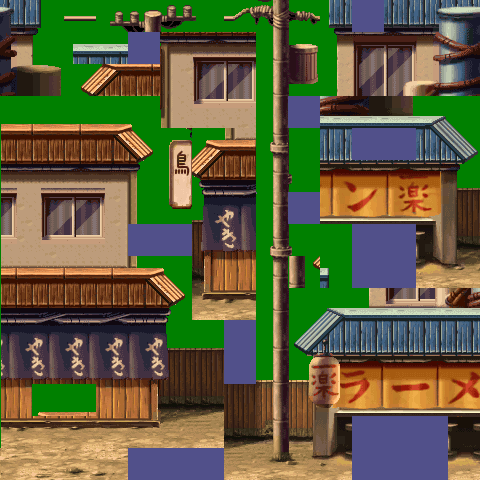
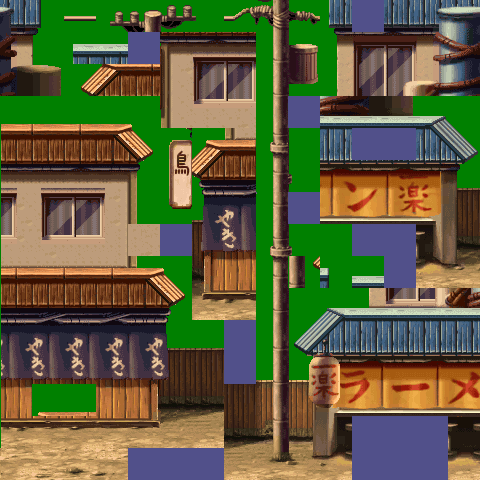
mở rộng màn hình game và mở rộng map

Changed region(s): [[0.7188, 0.5312, 0.8125, 0.625], [0.25, 0.4688, 0.3438, 0.5312]]

diff --git a/include/Const.h b/include/Const.h
@@ -5,8 +5,8 @@
 #include <map>
 #include <vector>
 
-const int WIDTH = 800;
-const int HIGH = 640;
+const int WIDTH = 1920;
+const int HIGH = 992;
 
 const int FPS = 60;
 const int frameDelay = 1000 / FPS;
@@ -15,8 +15,8 @@ const int BLOCK_W = 32;			// kích cỡ tile trong ảnh gốc
 const int BLOCK_H = 32;
 //const int MAP_SCALE = 2;		// tỉ lệ phóng to map
 
-const int FILE_COL = 25;		// HIGH / BLOCK_H
-const int FILE_ROW = 20;		// WIDTH / BLOCK_W
+const int FILE_COL = 60;		// HIGH / BLOCK_H
+const int FILE_ROW = 31;		// WIDTH / BLOCK_W
 
 const int ROW = 15;
 const int COL = 15;
@@ -25,7 +25,7 @@ const int DEFAULT_X1 = 64;
 const int DEFAULT_X2 = 736;
 const int DEFAULT_Y = 568;
 
-const int GROUND = 568;
+const int GROUND = 928;
 const int GRAVITY = 7;
 
 const int PLAYER1ID = 1;
@@ -47,7 +47,7 @@ const SDL_Color ENGBG_COLOR = { 155, 159, 191, 255 };
 const SDL_Color ENG_COLOR = { 73, 222, 255, 255 };
 
 constexpr const char* imageTilePath = "assets/imageTileMap.png";
-constexpr const char* tileMapPath = "assets/TileMap.txt";
+constexpr const char* tileMapPath = "assets/map.txt";
 
 const std::unordered_map<int, const std::map<const char*, std::vector<int>>> GAMECHARACTERS = {
 		// frames - speed - srcX - srcY - W - H - isHitting - damage

diff --git a/src/Game.cpp b/src/Game.cpp
@@ -108,12 +108,12 @@ void Game::update()
 
 	int distance = std::abs(player1.getComponent<TransformComponent>().position.x - player2.getComponent<TransformComponent>().position.x);
 
-	if (distance >= camera.w) {
+	/*if (distance >= camera.w) {
 		MAP_SCALE = 1;
 		camera.x = camera.y = 0;
 		player1.getComponent<TransformComponent>().scale = 1;
 		player2.getComponent<TransformComponent>().scale = 1;
-	}
+	}*/
 
 	// Khi 2 nhân vật chạm nhau
 	if (Game::AABB(player1.getComponent<SpriteComponent>().getDestRect(),
